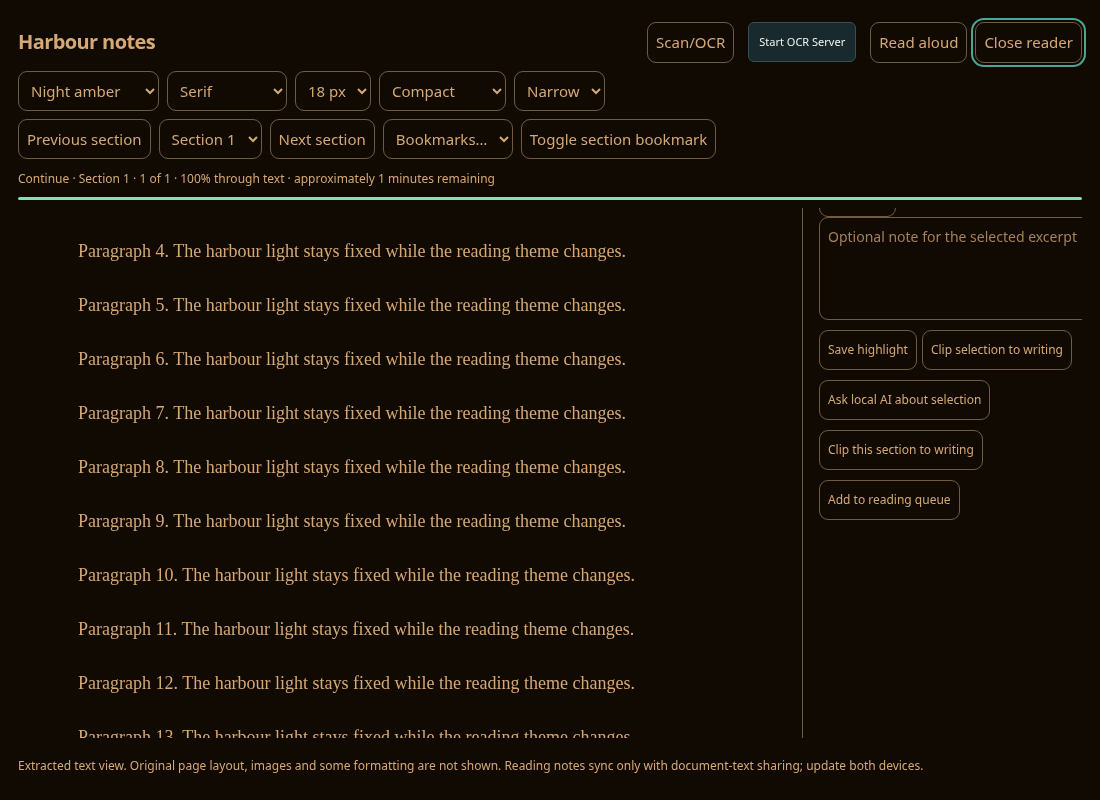
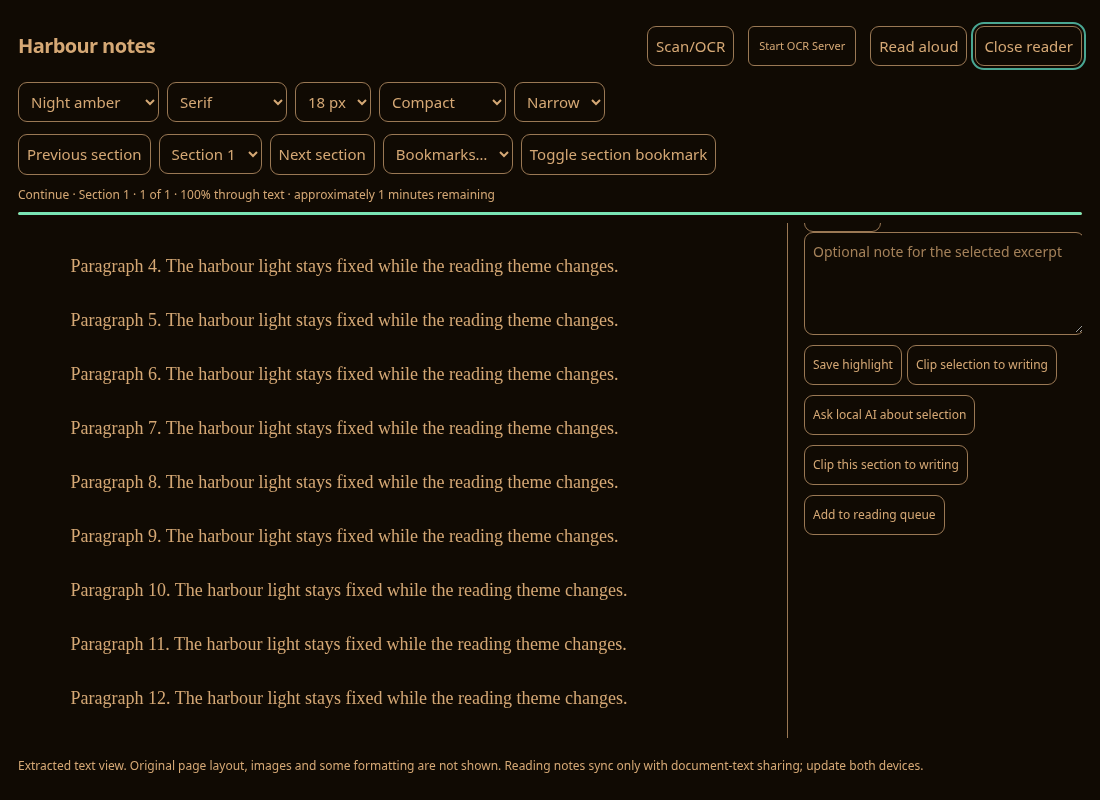
Raise reader and glass-light contrast above 4.5:1 (#85)
* Raise reader and glass-light contrast above 4.5:1

Shell borders, focus, meter, and quote marks were about 3.1:1, the OCR
button kept the dark workspace surface on light and amber, and the light
glass rail blurred the dark page through a nearly invisible border.
Tokens now clear 4.5:1, the OCR control uses reader colors, and viewport
resizes no longer animate layout.

Claude-Session: https://cursor.com/agents/bc-d90c7748-2765-4055-a73d-bbf420a21b2e

* Record the reader contrast PR in the handoff

Claude-Session: https://cursor.com/agents/bc-d90c7748-2765-4055-a73d-bbf420a21b2e

---------

diff --git a/windows/src/workspace/reader.css b/windows/src/workspace/reader.css
@@ -1,9 +1,11 @@
-.reader-overlay{--reader-bg:#18212b;--reader-ink:#e8eef3;--reader-line:#606d7a;--reader-focus:#4aa793;--reader-meter:#79e4b4;--reader-quote:#b4a144;position:fixed;inset:0;z-index:300;background:var(--reader-bg);color:var(--reader-ink);display:flex;flex-direction:column;padding:18px;overflow:hidden;font:15px/1.5 system-ui,sans-serif}.reader-overlay[hidden]{display:none!important}.reader-overlay[data-theme=black]{--reader-bg:#000;--reader-ink:#eee;--reader-line:#5c5c5c}.reader-overlay[data-theme=sepia]{--reader-bg:#f3e7d1;--reader-ink:#433827;--reader-line:#8d816a;--reader-focus:#409180;--reader-meter:#4c9071;--reader-quote:#948438}.reader-overlay[data-theme=light]{--reader-bg:#fafafa;--reader-ink:#222;--reader-line:#909090;--reader-focus:#469d8a;--reader-meter:#539d7c;--reader-quote:#a08f3d}.reader-header,.reader-controls,.reader-navigation{display:flex;gap:8px;align-items:center;flex-wrap:wrap;padding:4px 0;border:0}.reader-header h2{flex:1;font-size:20px;margin:0;overflow-wrap:anywhere}.reader-overlay button,.reader-overlay select,.reader-overlay textarea{background:var(--reader-bg);color:var(--reader-ink);border:1px solid var(--reader-line);border-radius:9px;padding:8px;font:inherit;min-height:40px;width:auto}.reader-overlay select{max-width:220px}.reader-overlay button:focus-visible,.reader-overlay select:focus-visible,.reader-page:focus-visible{outline:2px solid var(--reader-focus);outline-offset:2px}.reader-progress,.reader-notice,.reader-footnote{font-size:12px;margin:6px 0}.reader-body{display:grid;grid-template-columns:minmax(0,1fr) 280px;gap:24px;overflow:auto;min-height:0;flex:1;padding:8px 0}.reader-page{white-space:pre-wrap;overflow-wrap:anywhere;font:20px/1.8 Georgia,serif;margin:0 auto;max-height:none;width:100%;overflow:visible;color:var(--reader-ink)}.reader-aside{font:14px/1.5 system-ui,sans-serif;border-left:1px solid var(--reader-line);padding-left:16px}.reader-aside h3{margin-top:0}.reader-aside textarea{width:100%;min-height:85px}.reader-aside button{margin:5px 5px 5px 0;font-size:12px}.reader-notes article{border-top:1px solid var(--reader-line);padding:10px 0;overflow-wrap:anywhere}.reader-notes blockquote{margin:0;padding:0 8px;border-left:3px solid var(--reader-quote);font-style:italic}.reader-page mark[data-color=gold]{background:#f0ce69;color:#252018}.reader-page mark[data-color=green]{background:#91d6b0;color:#15291d}.reader-page mark[data-color=pink]{background:#eba7c1;color:#301321}@media(max-width:700px){.reader-overlay{padding:12px}.reader-body{display:block}.reader-aside{border:0;border-top:1px solid var(--reader-line);padding:20px 0;margin-top:25px}.reader-header h2{font-size:17px}.reader-controls select{font-size:12px;padding:5px;max-width:140px}.reader-navigation select{max-width:160px}.reader-page{padding:0 8px}.reader-footnote{font-size:10px}.reader-overlay button{font-size:12px}}
+.reader-overlay{--reader-bg:#18212b;--reader-ink:#e8eef3;--reader-line:#8494a2;--reader-focus:#4aa793;--reader-meter:#79e4b4;--reader-quote:#b4a144;--reader-control-bg:var(--reader-bg);--reader-control-ink:var(--reader-ink);--reader-control-line:var(--reader-line);--reader-control-mark:var(--reader-meter);color-scheme:dark;position:fixed;inset:0;z-index:300;background:var(--reader-bg);color:var(--reader-ink);display:flex;flex-direction:column;padding:18px;overflow:hidden;font:15px/1.5 system-ui,sans-serif}.reader-overlay[hidden]{display:none!important}.reader-overlay[data-theme=black]{--reader-bg:#000;--reader-ink:#eee;--reader-line:#767676}.reader-overlay[data-theme=sepia]{--reader-bg:#f3e7d1;--reader-ink:#433827;--reader-line:#746656;--reader-focus:#2f6d58;--reader-meter:#2a6848;--reader-quote:#6e5a28}.reader-overlay[data-theme=light]{--reader-bg:#fafafa;--reader-ink:#222;--reader-line:#6f6f6f;--reader-focus:#2f6f5c;--reader-meter:#2a7358;--reader-quote:#6f5b1c}.reader-overlay[data-theme=light],.reader-overlay[data-theme=sepia]{color-scheme:light}.reader-header,.reader-controls,.reader-navigation{display:flex;gap:8px;align-items:center;flex-wrap:wrap;padding:4px 0;border:0}.reader-header h2{flex:1;font-size:20px;margin:0;overflow-wrap:anywhere}.reader-overlay button,.reader-overlay select,.reader-overlay textarea{background:var(--reader-bg);color:var(--reader-ink);border:1px solid var(--reader-line);border-radius:9px;padding:8px;font:inherit;min-height:40px;width:auto}.reader-overlay select{max-width:220px}.reader-overlay button:focus-visible,.reader-overlay select:focus-visible,.reader-page:focus-visible{outline:2px solid var(--reader-focus);outline-offset:2px}.reader-progress,.reader-notice,.reader-footnote{font-size:12px;margin:6px 0}.reader-body{display:grid;grid-template-columns:minmax(0,1fr) 280px;gap:24px;overflow:auto;min-height:0;flex:1;padding:8px 0}.reader-page{white-space:pre-wrap;overflow-wrap:anywhere;font:20px/1.8 Georgia,serif;margin:0 auto;max-height:none;width:100%;overflow:visible;color:var(--reader-ink)}.reader-aside{font:14px/1.5 system-ui,sans-serif;border-left:1px solid var(--reader-line);padding-left:16px}.reader-aside h3{margin-top:0}.reader-aside textarea{width:100%;min-height:85px}.reader-aside button{margin:5px 5px 5px 0;font-size:12px}.reader-notes article{border-top:1px solid var(--reader-line);padding:10px 0;overflow-wrap:anywhere}.reader-notes blockquote{margin:0;padding:0 8px;border-left:3px solid var(--reader-quote);font-style:italic}.reader-page mark[data-color=gold]{background:#f0ce69;color:#252018}.reader-page mark[data-color=green]{background:#91d6b0;color:#15291d}.reader-page mark[data-color=pink]{background:#eba7c1;color:#301321}@media(max-width:700px){.reader-overlay{padding:12px}.reader-body{display:block}.reader-aside{border:0;border-top:1px solid var(--reader-line);padding:20px 0;margin-top:25px}.reader-header h2{font-size:17px}.reader-controls select{font-size:12px;padding:5px;max-width:140px}.reader-navigation select{max-width:160px}.reader-page{padding:0 8px}.reader-footnote{font-size:10px}.reader-overlay button{font-size:12px}.reader-header,.reader-controls,.reader-navigation{flex-wrap:nowrap;overflow-x:auto}}
 
 .reader-page{text-wrap:pretty;font-feature-settings:"kern" 1,"liga" 1}
-.reader-header h2{letter-spacing:-.03em}
+.reader-header h2{letter-spacing:-.03em;min-width:0;white-space:nowrap;overflow:hidden;text-overflow:ellipsis}
 
 .reader-meter{height:3px;border-radius:99px;background:var(--reader-line);overflow:hidden;margin:2px 0 8px}
+.reader-body{scrollbar-gutter:stable}
+.reader-header,.reader-controls,.reader-nav-slot{min-height:48px}
 .reader-meter>span{display:block;height:100%;width:0;background:var(--reader-meter);border-radius:99px}
 
 /* The section bar hides in place. Its slot keeps its height, so the reading column does not move. */
@@ -14,11 +16,12 @@
 
 @property --reader-bg{syntax:"<color>";inherits:true;initial-value:#18212b}
 @property --reader-ink{syntax:"<color>";inherits:true;initial-value:#e8eef3}
-@property --reader-line{syntax:"<color>";inherits:true;initial-value:#606d7a}
+@property --reader-line{syntax:"<color>";inherits:true;initial-value:#8494a2}
 @property --reader-focus{syntax:"<color>";inherits:true;initial-value:#4aa793}
 @property --reader-meter{syntax:"<color>";inherits:true;initial-value:#79e4b4}
 @property --reader-quote{syntax:"<color>";inherits:true;initial-value:#b4a144}
 .reader-overlay{--reader-theme-duration:.28s;--reader-theme-ease:cubic-bezier(.16,1,.3,1);transition:--reader-bg var(--reader-theme-duration) var(--reader-theme-ease),--reader-ink var(--reader-theme-duration) var(--reader-theme-ease),--reader-line var(--reader-theme-duration) var(--reader-theme-ease),--reader-focus var(--reader-theme-duration) var(--reader-theme-ease),--reader-meter var(--reader-theme-duration) var(--reader-theme-ease),--reader-quote var(--reader-theme-duration) var(--reader-theme-ease)}
 .reader-overlay :is(h1,h2,h3){color:var(--reader-ink)}
 .reader-overlay :is(input,textarea)::placeholder{color:color-mix(in srgb,var(--reader-ink) 75%,var(--reader-bg));opacity:1}
-.reader-overlay[data-theme=amber]{--reader-bg:#100a03;--reader-ink:#d5a875;--reader-line:#725b41}
+.reader-overlay :is(button,select,textarea){transition:background-color var(--reader-theme-duration) var(--reader-theme-ease),color var(--reader-theme-duration) var(--reader-theme-ease),border-color var(--reader-theme-duration) var(--reader-theme-ease),outline-color var(--reader-theme-duration) var(--reader-theme-ease)}
+.reader-overlay[data-theme=amber]{--reader-bg:#100a03;--reader-ink:#d5a875;--reader-line:#9a7854}

diff --git a/windows/tests/reader-theme.test.ts b/windows/tests/reader-theme.test.ts
@@ -7,6 +7,7 @@ const studioCss = readFileSync(new URL('../src/workspace/studio.css', import.met
 const readerTs = readFileSync(new URL('../src/workspace/reader.ts', import.meta.url), 'utf8');
 const railCss = readFileSync(new URL('../src/workspace/nav-rail.css', import.meta.url), 'utf8');
 const designCss = readFileSync(new URL('../src/workspace/anf-design.css', import.meta.url), 'utf8');
+const ocrTs = readFileSync(new URL('../src/workspace/ocr-client.ts', import.meta.url), 'utf8');
 
 const THEMES = ['dark', 'black', 'sepia', 'light', 'amber'] as const;
 const LAYOUT_PROPS = ['width', 'height', 'padding', 'margin', 'font-size', 'line-height', 'border-width', 'top', 'left', 'gap', 'grid-template'];
@@ -48,19 +49,19 @@ function themeProp(name: string, theme: (typeof THEMES)[number]) {
   return value!;
 }
 
-test('reader theme ink stays at least 4.5:1 and shell borders at least 3:1', () => {
+test('reader theme ink and shell chrome stay at least 4.5:1', () => {
   for (const theme of THEMES) {
     const bg = themeProp('--reader-bg', theme);
     const ink = themeProp('--reader-ink', theme);
     const line = themeProp('--reader-line', theme);
     assert.ok(contrast(bg, ink) >= 4.5, `${theme} ink ${ink} on ${bg} is ${contrast(bg, ink).toFixed(2)}`);
-    assert.ok(contrast(bg, line) >= 3, `${theme} border ${line} on ${bg} is ${contrast(bg, line).toFixed(2)}`);
+    assert.ok(contrast(bg, line) >= 4.5, `${theme} border ${line} on ${bg} is ${contrast(bg, line).toFixed(2)}`);
     const focus = themeProp('--reader-focus', theme);
     const meter = themeProp('--reader-meter', theme);
     const quote = themeProp('--reader-quote', theme);
-    assert.ok(contrast(bg, focus) >= 3, `${theme} focus ${focus} on ${bg} is ${contrast(bg, focus).toFixed(2)}`);
-    assert.ok(contrast(bg, meter) >= 3, `${theme} meter ${meter} on ${bg} is ${contrast(bg, meter).toFixed(2)}`);
-    assert.ok(contrast(bg, quote) >= 3, `${theme} quote ${quote} on ${bg} is ${contrast(bg, quote).toFixed(2)}`);
+    assert.ok(contrast(bg, focus) >= 4.5, `${theme} focus ${focus} on ${bg} is ${contrast(bg, focus).toFixed(2)}`);
+    assert.ok(contrast(bg, meter) >= 4.5, `${theme} meter ${meter} on ${bg} is ${contrast(bg, meter).toFixed(2)}`);
+    assert.ok(contrast(bg, quote) >= 4.5, `${theme} quote ${quote} on ${bg} is ${contrast(bg, quote).toFixed(2)}`);
   }
 });
 
@@ -105,4 +106,50 @@ test('glass shells ease border and overlay together without layout properties', 
   assert.match(transition!, /background-color/);
   assert.match(transition!, /border-color/);
   for (const prop of LAYOUT_PROPS) assert.equal(transition!.includes(prop), false, prop);
+});
+
+test('reader controls ease color only, and a narrow viewport does not restack the chrome', () => {
+  const controls = readerCss.match(/\.reader-overlay :is\(button,select,textarea\)\{([^}]*)\}/);
+  assert.ok(controls, 'reader control transition');
+  const transition = controls![1].match(/transition\s*:([^;]+)/)?.[1] ?? '';
+  assert.match(transition, /background-color/);
+  assert.match(transition, /border-color/);
+  assert.match(transition, /color/);
+  for (const prop of LAYOUT_PROPS) assert.equal(transition.includes(prop), false, prop);
+  assert.match(readerCss, /@media\(max-width:700px\)\{[\s\S]*flex-wrap\s*:\s*nowrap/);
+  assert.match(readerCss, /scrollbar-gutter\s*:\s*stable/);
+  assert.match(readerCss, /\.reader-header h2\{[^}]*text-overflow\s*:\s*ellipsis/);
+  assert.match(readerCss, /\.reader-overlay\{[^}]*color-scheme\s*:\s*dark/);
+  assert.match(readerCss, /\.reader-overlay\[data-theme=light\],\.reader-overlay\[data-theme=sepia\]\{[^}]*color-scheme\s*:\s*light/);
+});
+
+test('the OCR control inside the reader uses reader tokens, not the workspace surface', () => {
+  assert.match(readerCss, /--reader-control-bg\s*:\s*var\(--reader-bg\)/);
+  assert.match(readerCss, /--reader-control-ink\s*:\s*var\(--reader-ink\)/);
+  assert.match(readerCss, /--reader-control-line\s*:\s*var\(--reader-line\)/);
+  assert.match(readerCss, /--reader-control-mark\s*:\s*var\(--reader-meter\)/);
+  assert.match(ocrTs, /var\(--reader-control-bg,\s*var\(--surface/);
+  assert.match(ocrTs, /var\(--reader-control-ink,\s*var\(--ink/);
+  assert.match(ocrTs, /var\(--reader-control-line,\s*var\(--line/);
+  assert.doesNotMatch(ocrTs, /btn\.style\.background = 'var\(--surface/);
+  assert.match(ocrTs, /var\(--reader-control-mark,\s*var\(--accent/);
+});
+
+test('light glass drops the blur halo and keeps a readable border on an opaque rail', () => {
+  const side = propIn(designCss, '#workspace-root[data-theme=light]', '--side');
+  assert.ok(side, 'light --side');
+  for (const selector of ['#workspace-root[data-theme=light]', '#workspace-root[data-theme=system]']) {
+    const rule = railCss.match(new RegExp(`${selector.replace(/[.*+?^${}()|[\]\\]/g, '\\$&')} \\.glass-rail:not\\(\\[data-rail=collapsed\\]\\)\\{([^}]*)\\}`));
+    assert.ok(rule, selector);
+    assert.match(rule![1], /background\s*:\s*var\(--side\)/);
+    assert.match(rule![1], /backdrop-filter\s*:\s*none/);
+    const line = rule![1].match(/--glass-line\s*:\s*(#[0-9a-fA-F]{6})/)?.[1];
+    assert.ok(line, `${selector} sets --glass-line`);
+    assert.ok(contrast(side!, line!) >= 4.5, `${selector} glass border ${line} on ${side} is ${contrast(side!, line!).toFixed(2)}`);
+  }
+  assert.match(designCss, /#workspace-root\{[^}]*background\s*:\s*var\(--bg\)/);
+  assert.match(designCss, /#workspace-root\{[^}]*min-height\s*:\s*100%/);
+  assert.match(designCss, /#workspace-root\[data-theme=light\] \.workspace-header\{[^}]*backdrop-filter\s*:\s*none/);
+  assert.match(designCss, /#workspace-root\[data-theme=system\] \.workspace-header\{[^}]*backdrop-filter\s*:\s*none/);
+  assert.match(designCss, /--shell-blur\s*:/);
 });

diff --git a/windows/src/workspace/nav-rail.css b/windows/src/workspace/nav-rail.css
@@ -1,8 +1,9 @@
 /* Glass navigation rail (nav-rail.ts). Windows workspace only: Android keeps its own bottom navigation. */
 .glass-rail{
   --rail-open:248px;--rail-closed:68px;--rail-pad:12px;--rail-ease:cubic-bezier(.16,1,.3,1);
+  --shell-blur:24px;
   background:color-mix(in srgb,var(--side) 78%,transparent);
-  backdrop-filter:blur(24px) saturate(160%);-webkit-backdrop-filter:blur(24px) saturate(160%);
+  backdrop-filter:blur(var(--shell-blur)) saturate(160%);-webkit-backdrop-filter:blur(var(--shell-blur)) saturate(160%);
   border:1px solid color-mix(in srgb,var(--ink) 10%,transparent);
   box-shadow:0 14px 40px rgba(0,0,0,0.45), inset 0 1px 0 rgba(255,255,255,0.08);
 }
@@ -39,9 +40,9 @@
   body.has-glass-rail .music-player:not(.music-full-player){left:max(50%,calc(var(--rail-open,248px) + 28px + min(calc(100vw - 320px),1140px) / 2))!important}
 }
 
-/* Light theme: over the dark Music Hub the 78% glass left the open rail's muted labels at ~3.3:1. Open, it is nearly opaque; the collapsed icon rail keeps the glass. */
-#workspace-root[data-theme=light] .glass-rail:not([data-rail=collapsed]){background:color-mix(in srgb,var(--side) 94%,transparent);border-color:color-mix(in srgb,var(--ink) 10%,transparent)}
-@media(prefers-color-scheme:light){#workspace-root[data-theme=system] .glass-rail:not([data-rail=collapsed]){background:color-mix(in srgb,var(--side) 94%,transparent);border-color:color-mix(in srgb,var(--ink) 10%,transparent)}}
+/* Light theme: a translucent rail blurred the dark page into its edge and left the border near 1.2:1. Open, it is opaque with no blur; the collapsed icon rail keeps the glass. */
+#workspace-root[data-theme=light] .glass-rail:not([data-rail=collapsed]){--shell-blur:0px;--glass-line:#5b7067;background:var(--side);border-color:var(--glass-line);backdrop-filter:none;-webkit-backdrop-filter:none}
+@media(prefers-color-scheme:light){#workspace-root[data-theme=system] .glass-rail:not([data-rail=collapsed]){--shell-blur:0px;--glass-line:#5b7067;background:var(--side);border-color:var(--glass-line);backdrop-filter:none;-webkit-backdrop-filter:none}}
 
 @media(max-width:767px){
   /* Narrow windows: every section as an icon in a floating bottom bar, within thumb reach. */

diff --git a/windows/src/workspace/anf-design.css b/windows/src/workspace/anf-design.css
@@ -7,6 +7,7 @@
   color:var(--ink);color-scheme:dark;
   font-family:'Segoe UI Variable','Segoe UI',system-ui,sans-serif;
 }
+#workspace-root{background:var(--bg);min-height:100%}
 html[data-theme=light],#workspace-root[data-theme=light]{
   --bg:#f5f6f2;--side:#eef1eb;--surface:#ffffff;--panel:var(--surface);
   --hover:#e5efe8;--line:#cddbd3;--ink:#223c35;--muted:#4a6055;
@@ -45,7 +46,9 @@ p{line-height:1.65}pre{overflow-wrap:anywhere}
 .workspace-navigation button[aria-current=page]{background:var(--surface);border-color:var(--line);color:var(--accent);box-shadow:var(--shadow);font-weight:700}
 .history-sidebar>button{border-style:solid;border-radius:12px}
 .history-heading{margin-top:28px}.history-item{border-radius:12px;padding:12px}
-.workspace-header{padding:20px 36px;min-height:92px;background:color-mix(in srgb,var(--bg) 90%,transparent);backdrop-filter:blur(16px);-webkit-backdrop-filter:blur(16px);border-bottom:1px solid var(--line);position:sticky;top:0;z-index:90}
+.workspace-header{padding:20px 36px;min-height:92px;--shell-blur:16px;background:color-mix(in srgb,var(--bg) 90%,transparent);backdrop-filter:blur(var(--shell-blur));-webkit-backdrop-filter:blur(var(--shell-blur));border-bottom:1px solid var(--line);position:sticky;top:0;z-index:90}
+#workspace-root[data-theme=light] .workspace-header{--shell-blur:0px;background:var(--bg);backdrop-filter:none;-webkit-backdrop-filter:none}
+@media(prefers-color-scheme:light){#workspace-root[data-theme=system] .workspace-header{--shell-blur:0px;background:var(--bg);backdrop-filter:none;-webkit-backdrop-filter:none}}
 .workspace-header h1{font-size:24px;margin-bottom:4px}.workspace-header .hint{margin:0}
 .project-title input{border:1px solid var(--line);background:var(--surface);padding:9px 12px;font-size:13px;border-radius:10px}
 .panel-host{padding:36px;scrollbar-width:thin}.workspace-panel{max-width:1080px}

diff --git a/windows/src/workspace/ocr-client.ts b/windows/src/workspace/ocr-client.ts
@@ -282,13 +282,13 @@ export function createOcrStatusIndicator(options?: OcrStatusIndicatorOptions): O
       badge.style.fontSize = '11px';
       badge.style.fontWeight = '600';
       badge.style.letterSpacing = '0.02em';
-      badge.style.background = 'rgba(121, 228, 180, 0.14)';
-      badge.style.color = 'var(--accent, #79e4b4)';
-      badge.style.border = '1px solid rgba(121, 228, 180, 0.35)';
+      badge.style.background = 'color-mix(in srgb, var(--reader-control-mark, var(--accent, #79e4b4)) 18%, transparent)';
+      badge.style.color = 'var(--reader-control-ink, var(--ink, #edf4ef))';
+      badge.style.border = '1px solid var(--reader-control-mark, var(--accent, #79e4b4))';
 
       const dot = document.createElement('span');
       dot.textContent = '●';
-      dot.style.color = 'var(--accent, #79e4b4)';
+      dot.style.color = 'var(--reader-control-mark, var(--accent, #79e4b4))';
       dot.style.fontSize = '9px';
 
       const label = document.createElement('span');
@@ -332,9 +332,9 @@ export function createOcrStatusIndicator(options?: OcrStatusIndicatorOptions): O
       btn.style.borderRadius = '6px';
       btn.style.fontSize = '11px';
       btn.style.fontWeight = '500';
-      btn.style.background = 'var(--surface, #1e1e1e)';
-      btn.style.color = 'var(--ink, #e0e0e0)';
-      btn.style.border = '1px solid var(--line, #3a3a3a)';
+      btn.style.background = 'var(--reader-control-bg, var(--surface, #1e1e1e))';
+      btn.style.color = 'var(--reader-control-ink, var(--ink, #e0e0e0))';
+      btn.style.border = '1px solid var(--reader-control-line, var(--line, #3a3a3a))';
       btn.style.cursor = 'pointer';
 
       btn.addEventListener('click', async () => {

diff --git a/HANDOFF.md b/HANDOFF.md
@@ -245,3 +245,9 @@ Nothing merged. Labels per runbook section 7. Baseline on origin/main `b7cb275` 
 - `windows/src/workspace/opds-client.ts`: catalog fetches retry when a resilience store is passed. A parsed page is kept as the fallback. An unparsed or hostile body is stored beside it and does not replace it. Oversized unparsed bodies are not stored. Offline requests are queued (one URL, 100 entries, 28-day expiry) and a later success removes that URL. `javascript:` and userinfo URLs are not stored. No project-store schema change.
 - Labels: tested on Linux (`npx tsc --noEmit` clean, `npm test` 305 pass / 0 fail before this merge). After merging `origin/main` (`3e1d23c`), `npx tsc --noEmit` is clean and `npm test` is 312 pass / 0 fail. Evidence in `.cursor/verification-artifacts/opds-koreader-offline.md`. NOT installed. No screen calls these modules. No live OPDS or KOReader server.
 - Commit `98a62b3` on `cursor/opds-koreader-offline-queue-d569`. PR: https://github.com/mwalikokelvo/AnF/pull/87. Merged with `origin/main` (`3e1d23c`, PR #86). The new abort and cover-timeout tests sit beside the offline-queue tests. No behavior clash: an aborted or 408/504 progress push is still queued once, and cover prefetch is unchanged.
+
+## 2026-11-03 Cursor: reader contrast across dark, light, amber, and glass-light
+
+- Reader shell borders, focus rings, meters, and quote marks now clear 4.5:1 on dark, black, sepia, light, and night amber (they were about 3.1:1). Start OCR Server uses the reader background, ink, and border instead of the dark workspace surface. Light and sepia readers set `color-scheme: light`. Below 700px the reader chrome stays on one scrolling row, the title ellipsizes, and controls ease only color, so a viewport change does not animate the page. The open light glass rail is opaque (`--shell-blur: 0`, `backdrop-filter: none`) with a `#5b7067` border at 4.65:1, and `#workspace-root` paints `var(--bg)` so the light canvas is `#f5f6f2` rather than the dark page showing through.
+- Labels: tested on Linux (`npm run typecheck` clean, `npm test` 288 pass / 0 fail before this merge). Browser fixture `node scripts/app-qa/reader-theme.mjs` (headless Chrome): five themes, OCR control matches the reader fill, resize 1100px to 640px and back leaves the page settled, light rail blur is none. Evidence in `.cursor/verification-artifacts/reader-theme.md`. NOT installed. `scripts/simplify-code.sh` still cannot run (`ponytail-cli` npm 404, and the script shebang has a UTF-8 BOM). After merging `origin/main` (`9df717a`, PRs #86 and #87), `npm run typecheck` is clean and `npm test` is 315 pass / 0 fail. The contrast styles do not touch the offline queue or the ID3 audio check.
+- Commit `445b7c5` on `cursor/reader-theme-contrast-1b2e`. PR: https://github.com/mwalikokelvo/AnF/pull/85.

diff --git a/.cursor/verification-artifacts/reader-theme.md b/.cursor/verification-artifacts/reader-theme.md
@@ -1,10 +1,25 @@
-# Reader theme transitions
+# Reader theme contrast
 
 Browser fixture (headless Chrome), not an installed app.
 
+## Before
+
+Sampled from the previous fixture shots:
+
+| Surface | Measured |
+|---|---|
+| Dark, light, and amber borders | about 3.07:1 (`#606d7a`, `#909090`, `#725b41`) |
+| Light focus, meter, and quote | about 3.10:1 |
+| Start OCR Server | workspace surface `#182a2d` on every reader theme |
+| Light glass border | about 1.2:1, with a 24px blur halo over the dark page |
+| Light canvas behind the rail | `#101e21` showing through |
+
+## After
+
 - Themes dark, black, sepia, light, amber change background and ink.
-- Reading column, toolbar, glass rail, and header keep their boxes.
+- Reading column, toolbar, glass rail, and header keep their boxes. Resizing 1100px to 640px and back does not leave the page mid-transition.
 - Scroll stays at 140px and the document text is not rebuilt.
-- Title, aside heading, and page text stay at least 4.5:1. Control borders stay at least 3:1. Placeholders stay at least 4.5:1.
+- Title, aside heading, page text, placeholders, and the OCR control stay at least 4.5:1. Shell borders, focus, meter, and quote stay at least 4.5:1.
+- The open light rail is opaque (`backdrop-filter: none`). Its border is rgb(91, 112, 103) on rgb(238, 241, 235) (4.65:1). The canvas is rgb(245, 246, 242), not the dark page color.
 - Console warnings: none.
 - Transition: `--reader-bg, --reader-ink, --reader-line, --reader-focus, --reader-meter, --reader-quote`.
